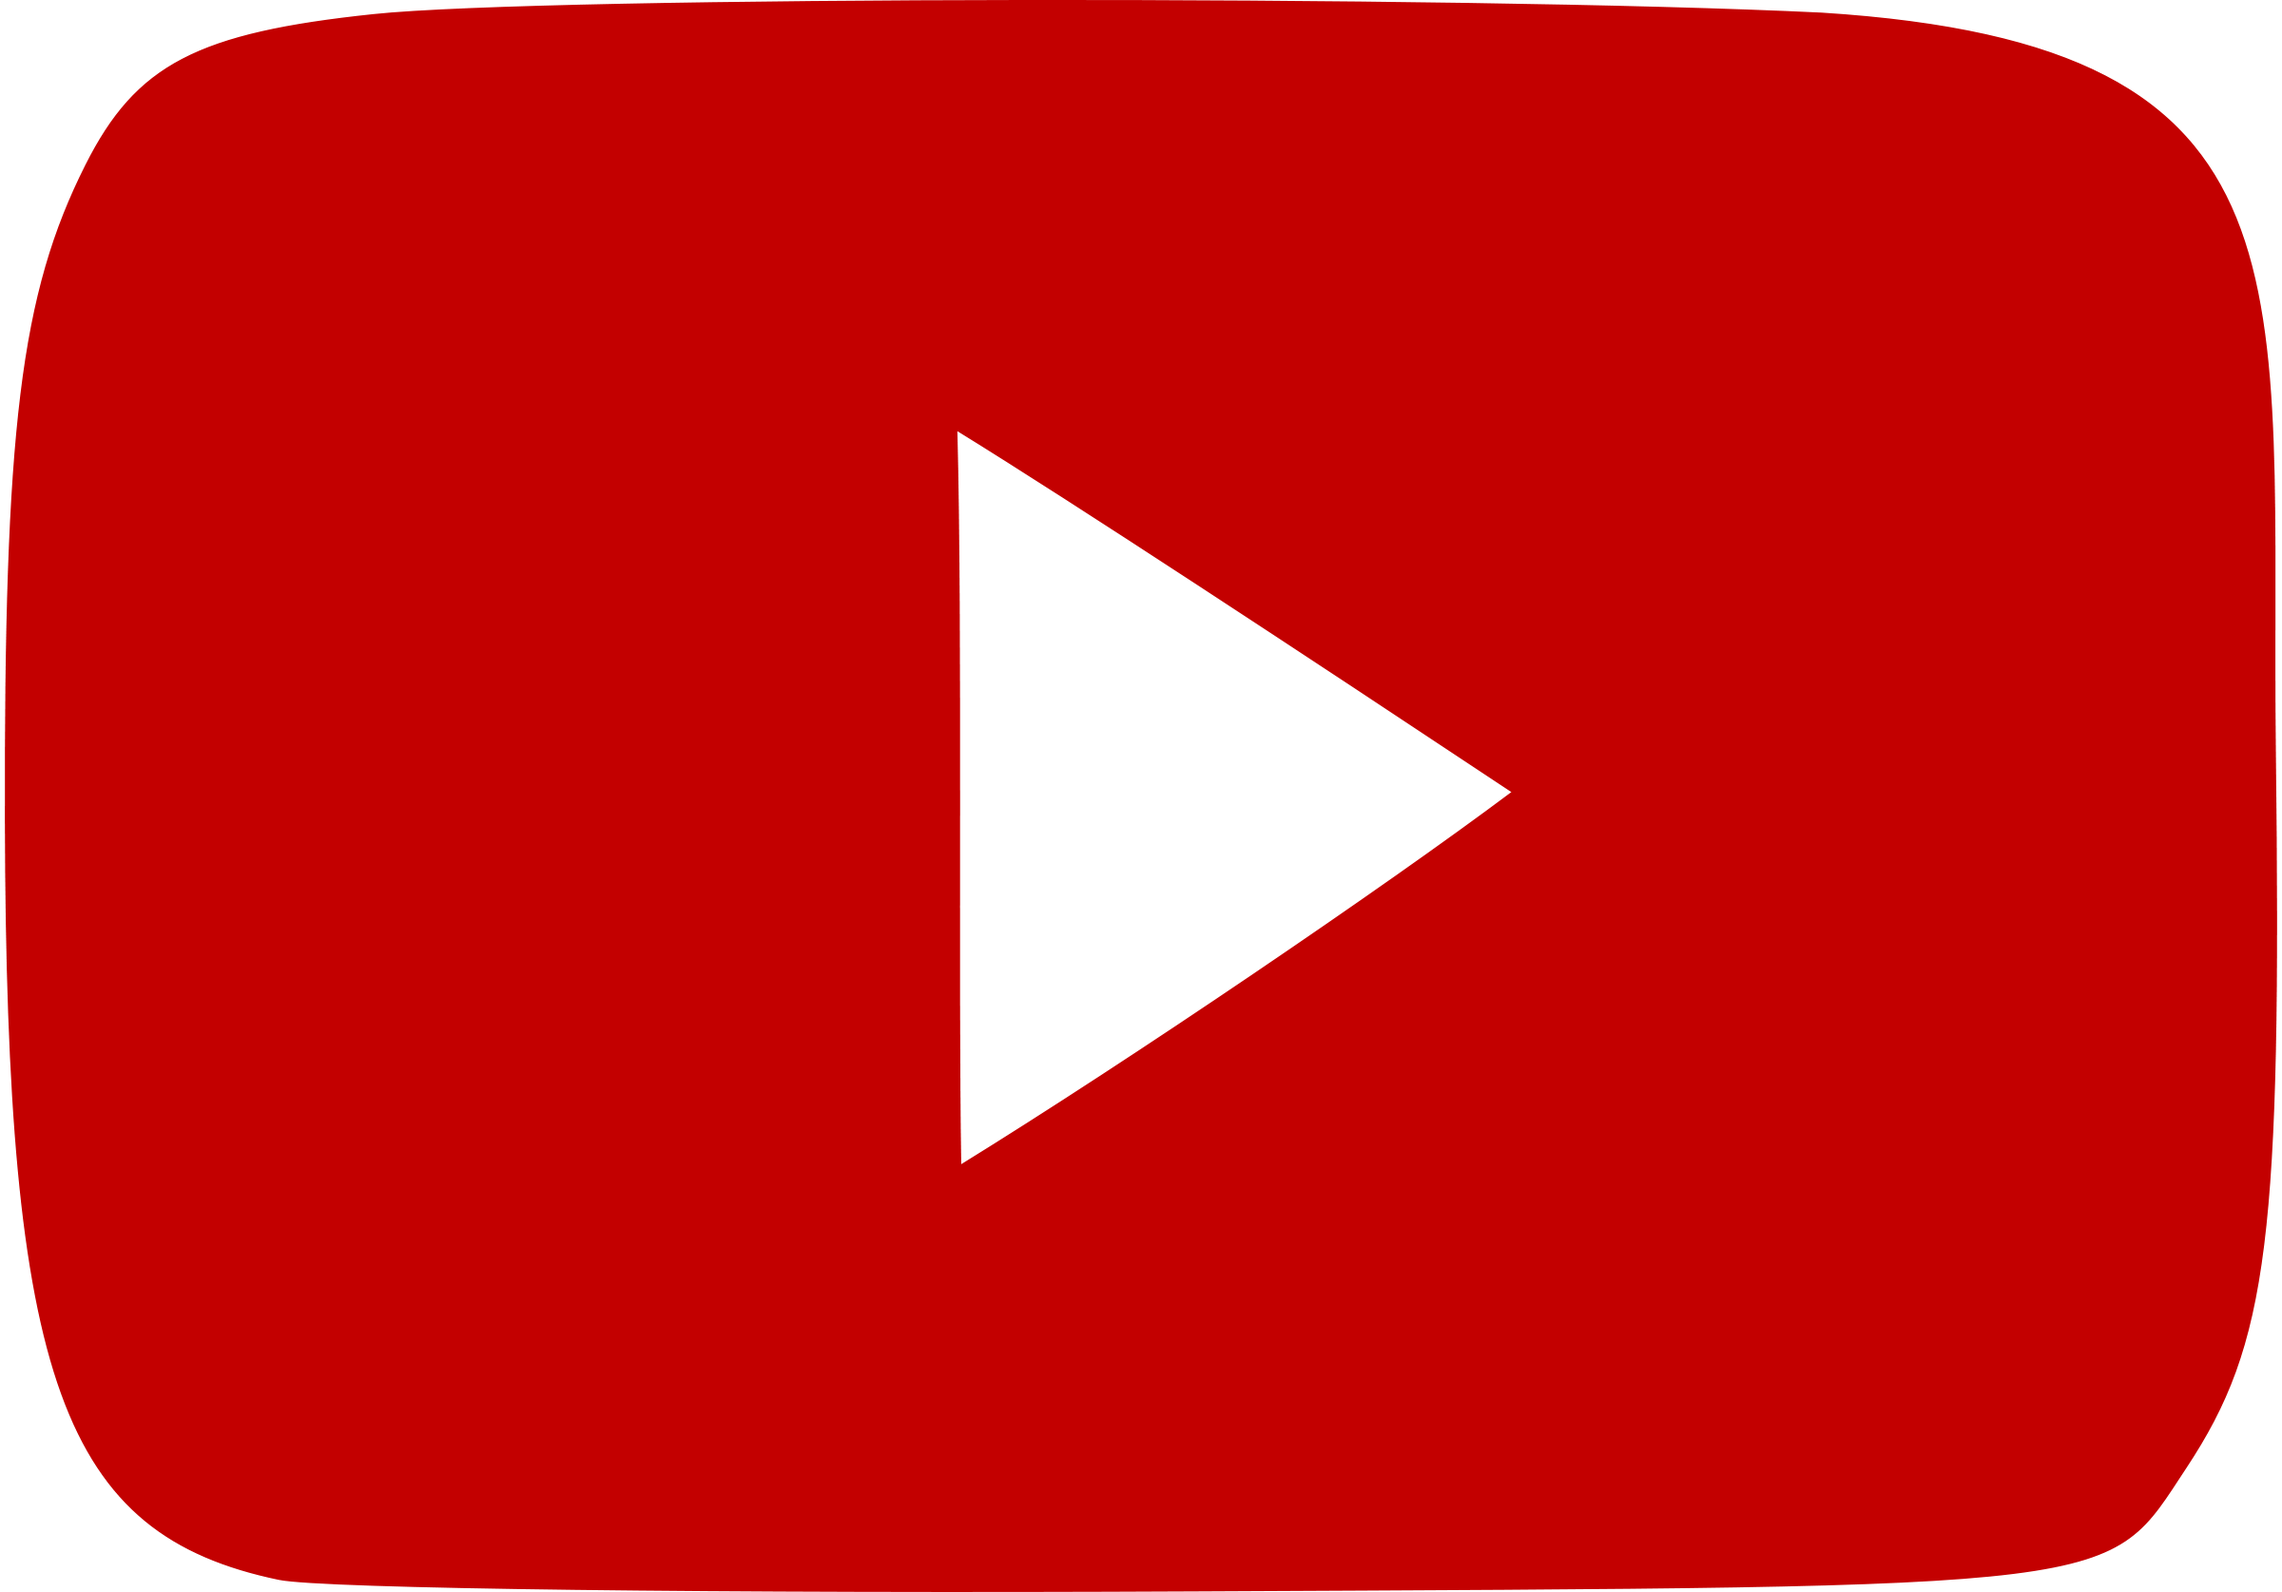
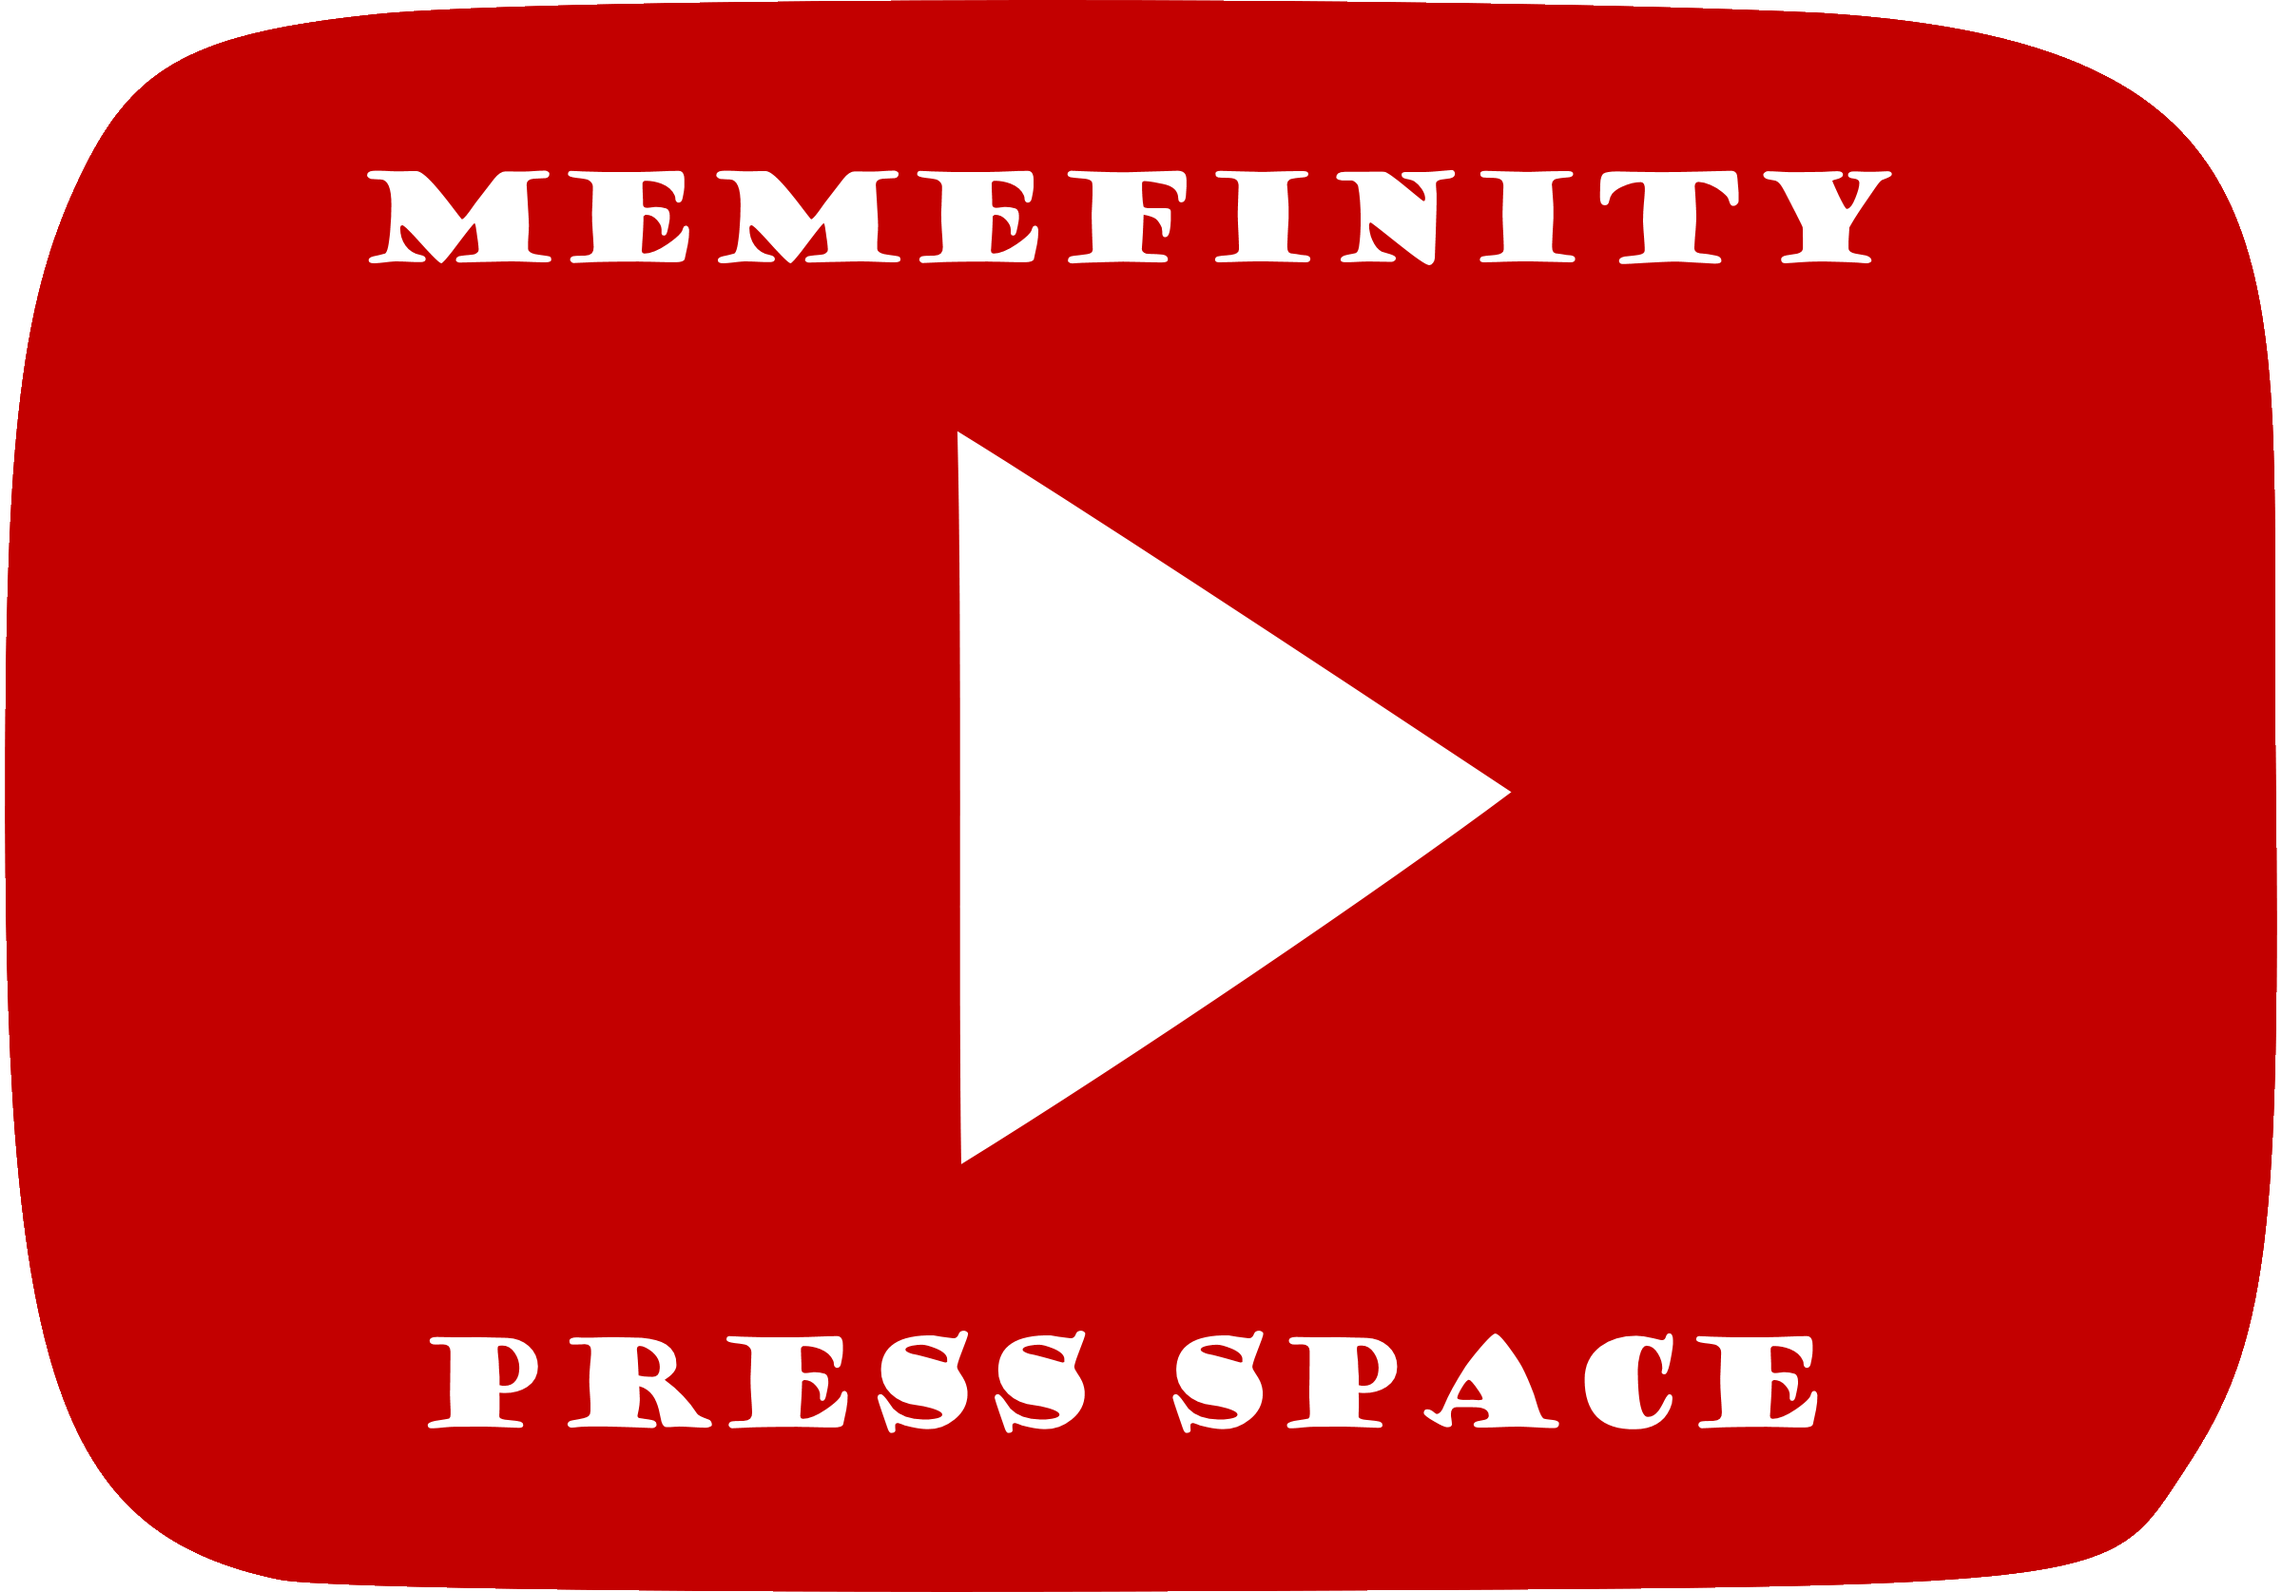
No longer breaks game when die
Also play button

Changed region(s): [[0.1562, 0.0931, 0.8438, 0.1863], [0.1875, 0.8382, 0.8125, 0.9003]]

diff --git a/Memefinity.py b/Memefinity.py
@@ -52,28 +52,38 @@ Goal.containers = goals, movingObjects, all
 ffmpeg -i memefinityloading.mp4 -vcodec mpeg1video -b:v 2048k -acodec libmp3lame -s 1280x720 -intra memefinityloading.mpg
 """
 
+pygame.mixer.quit()
+
+movie = pygame.movie.Movie('rsc/memefinityloading.mpg')
+movie_screen = pygame.Surface(size)
+movie_rect = movie_screen.get_rect()
+
+movie.set_display(movie_screen)
+movie.play()
+
+playing = True
+while playing:
+    for event in pygame.event.get():
+        if event.type == pygame.QUIT:
+            movie.stop()
+            pygame.quit()
+    
+    if not movie.get_busy():
+        movie.stop()
+        movie.stop()
+        playing = False
+    screen.blit(movie_screen, movie_rect)
+    pygame.display.update()
+    clock.tick(60)
 
 while True:
-    pygame.mixer.quit()
-    
-    movie = pygame.movie.Movie('rsc/memefinityloading.mpg')
-    movie_screen = pygame.Surface(size)
-    movie_rect = movie_screen.get_rect()
-
-    movie.set_display(movie_screen)
-    movie.play()
-
-    playing = True
-    while playing:
+    menu = True
+    while menu:
         for event in pygame.event.get():
-            if event.type == pygame.QUIT:
-                movie.stop()
-                pygame.quit()
-        
-        if not movie.get_busy():
-            movie.stop()
-            movie.stop()
-            playing = False
+            if event.type == pygame.QUIT: sys.exit()
+            if event.type == pygame.KEYDOWN:
+                    if event.key == pygame.K_SPACE:
+                        menu = False
         screen.blit(movie_screen, movie_rect)
         pygame.display.update()
         clock.tick(60)
